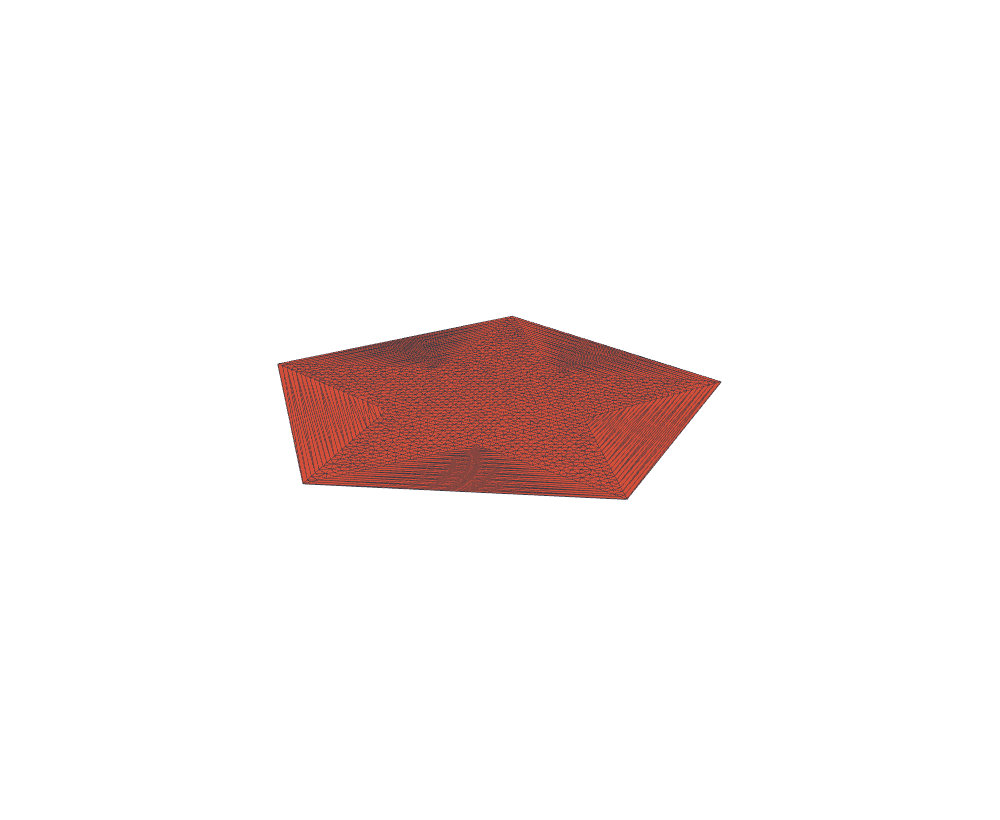
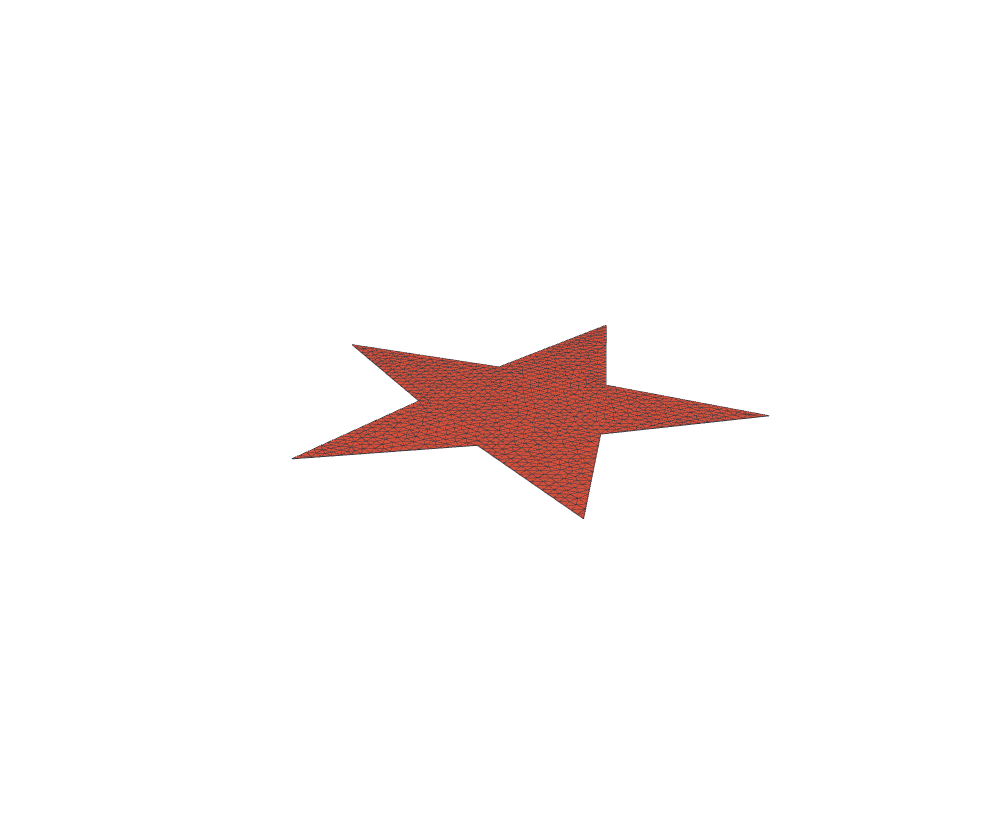
Stage 3: cdt3 boundary-constrained Tetraedrisierung -- conforming Steiner-Recovery (Lnc/Pac) der frozen Surface; Wuerfel-Milestone (Volumen/Flaeche exakt, watertight)

Changed region(s): [[0.279, 0.3659, 0.775, 0.6402]]

diff --git a/crates/rapidmesh-tet/src/cdt3.rs b/crates/rapidmesh-tet/src/cdt3.rs
@@ -1,0 +1,308 @@
+//! Stage 3: boundary-constrained tetrahedralization (conforming CDT).
+//!
+//! Given the frozen Stage-2 surface mesh `S` (exact vertices on their carriers,
+//! plus a triangulation) and a set of relaxed interior points, this builds a
+//! Delaunay tetrahedralization that contains every triangle of `S` as a union of
+//! tet faces (\cref{prop:watertight} of the report). Boundary recovery is
+//! conforming, by Steiner insertion ON the constraint (Diazzi et al. 2023): a
+//! missing constraint edge is split at a [`Point3::Lnc`] midpoint (exactly on the
+//! edge line) and a missing facet at a [`Point3::Pac`] interior point (exactly on
+//! the facet plane), so the surface geometry is preserved and the next recovery
+//! round sees the carrier intact. The result has a tetrahedron on each side of
+//! every surface triangle, so region labelling is a flood fill that never leaks.
+//!
+//! This replaces the unconstrained-Delaunay + centroid-classification path, which
+//! recovered the boundary only statistically (\cref{sec:conformity}).
+
+use crate::delaunay::DelaunayBuilder;
+use rapidmesh_exact::Point3;
+use std::collections::HashMap;
+use std::hash::BuildHasherDefault;
+
+type V3 = [f64; 3];
+type DMap<K, V> = HashMap<K, V, BuildHasherDefault<rustc_hash::FxHasher>>;
+
+fn sorted2(a: usize, b: usize) -> (usize, usize) {
+    (a.min(b), a.max(b))
+}
+
+/// Output of [`tetrahedralize_constrained`].
+pub struct Constrained {
+    /// Tet vertex indices into `points` (and `exact`).
+    pub tets: Vec<[usize; 4]>,
+    /// f64 vertex positions (surface verts, interior, recovered Steiner).
+    pub points: Vec<V3>,
+    /// The refined constraint triangulation (the surface after recovery splits),
+    /// indices into `points`. Every triangle here is a face of two tets.
+    pub surf_tris: Vec<[usize; 3]>,
+    /// `points[i]` came from surface vertex / interior / Steiner: this is the
+    /// number of original surface vertices (`points[..n_surf_verts]`).
+    pub n_surf_verts: usize,
+}
+
+/// Recovery cap: a safety bound on Steiner insertions, far above any real need
+/// (conforming recovery terminates; this only guards a degenerate input).
+const RECOVER_CAP: usize = 1 << 20;
+
+/// Boundary-constrained Delaunay tetrahedralization. `verts` are the exact
+/// surface vertices (each already on its analytic carrier); `tris` index into
+/// `verts` and form the frozen, watertight surface; `interior` are the relaxed
+/// interior seeds; `lo`/`hi` bound the domain.
+pub fn tetrahedralize_constrained(
+    verts: &[Point3],
+    tris: &[[usize; 3]],
+    interior: &[V3],
+    lo: V3,
+    hi: V3,
+) -> Constrained {
+    let mut db = DelaunayBuilder::enclosing(lo, hi);
+
+    // All mesh vertices, exact; `bidx[k]` is the builder index of `all[k]`.
+    // Surface vertices first (so `n_surf_verts` splits them from interior).
+    let mut all: Vec<Point3> = verts.to_vec();
+    let mut bidx: Vec<usize> = Vec::with_capacity(all.len() + interior.len());
+    for p in &all {
+        bidx.push(db.insert_exact(p.clone()));
+    }
+    let n_surf_verts = all.len();
+    for &p in interior {
+        if let Some(i) = db.try_insert(p) {
+            bidx.push(i);
+            all.push(Point3::Explicit(p));
+        }
+    }
+
+    let mut tris: Vec<[usize; 3]> = tris.to_vec();
+
+    // ---- edge recovery: every constraint edge must be a mesh edge ----------
+    recover_edges(&mut db, &mut all, &mut bidx, &mut tris);
+
+    // ---- facet recovery: every constraint triangle must be a mesh face -----
+    recover_facets(&mut db, &mut all, &mut bidx, &mut tris);
+
+    // Final tets in builder indices -> map back to `all` indices.
+    let b2a = invert(&bidx, db.len());
+    let tets: Vec<[usize; 4]> = db
+        .tets()
+        .into_iter()
+        .map(|t| std::array::from_fn(|j| b2a[t[j]]))
+        .collect();
+    let points: Vec<V3> = all.iter().map(|p| p.approx().expect("valid vertex")).collect();
+    Constrained { tets, points, surf_tris: tris, n_surf_verts }
+}
+
+/// Inverse of `bidx`: builder index -> `all` index (`usize::MAX` if unused, e.g.
+/// a deduplicated near-duplicate).
+fn invert(bidx: &[usize], builder_len: usize) -> Vec<usize> {
+    let mut b2a = vec![usize::MAX; builder_len];
+    for (a, &b) in bidx.iter().enumerate() {
+        if b < builder_len {
+            b2a[b] = a;
+        }
+    }
+    b2a
+}
+
+/// Inserts the [`Point3::Lnc`] midpoint of edge `(a,b)` (indices into `all`),
+/// exactly on the edge line, and returns its `all` index.
+fn split_edge_midpoint(db: &mut DelaunayBuilder, all: &mut Vec<Point3>, bidx: &mut Vec<usize>, a: usize, b: usize) -> usize {
+    let pa = all[a].approx().expect("valid");
+    let pb = all[b].approx().expect("valid");
+    let m = Point3::Lnc { a: pa, b: pb, t: 0.5 };
+    let bi = db.insert_exact(m.clone());
+    all.push(m);
+    bidx.push(bi);
+    all.len() - 1
+}
+
+/// Inserts the [`Point3::Pac`] centroid of triangle `(a,b,c)`, exactly on the
+/// facet plane, and returns its `all` index.
+fn split_facet_centroid(db: &mut DelaunayBuilder, all: &mut Vec<Point3>, bidx: &mut Vec<usize>, a: usize, b: usize, c: usize) -> usize {
+    let pa = all[a].approx().expect("valid");
+    let pb = all[b].approx().expect("valid");
+    let pc = all[c].approx().expect("valid");
+    let g = Point3::Pac { a: pa, b: pb, c: pc, u: 1.0 / 3.0, v: 1.0 / 3.0 };
+    let bi = db.insert_exact(g.clone());
+    all.push(g);
+    bidx.push(bi);
+    all.len() - 1
+}
+
+/// Forces every constraint edge to appear as a mesh edge by splitting missing
+/// edges at their midpoint; each split also bisects the incident triangles so the
+/// surface stays a triangulation.
+fn recover_edges(db: &mut DelaunayBuilder, all: &mut Vec<Point3>, bidx: &mut Vec<usize>, tris: &mut Vec<[usize; 3]>) {
+    let mut steiner = 0usize;
+    loop {
+        // Collect a missing constraint edge.
+        let mut missing: Option<(usize, usize)> = None;
+        let mut seen: DMap<(usize, usize), ()> = DMap::default();
+        'outer: for t in tris.iter() {
+            for e in 0..3 {
+                let (a, b) = (t[e], t[(e + 1) % 3]);
+                let key = sorted2(a, b);
+                if seen.insert(key, ()).is_some() {
+                    continue;
+                }
+                if !db.edge_exists(bidx[a], bidx[b]) {
+                    missing = Some((a, b));
+                    break 'outer;
+                }
+            }
+        }
+        let (a, b) = match missing {
+            Some(e) => e,
+            None => break,
+        };
+        let m = split_edge_midpoint(db, all, bidx, a, b);
+        bisect_triangles_on_edge(tris, a, b, m);
+        steiner += 1;
+        assert!(steiner < RECOVER_CAP, "edge recovery did not terminate");
+    }
+}
+
+/// Replaces every triangle containing edge `(a,b)` by the two triangles obtained
+/// by splitting that edge at the new midpoint vertex `m` (preserving winding).
+fn bisect_triangles_on_edge(tris: &mut Vec<[usize; 3]>, a: usize, b: usize, m: usize) {
+    let mut out: Vec<[usize; 3]> = Vec::with_capacity(tris.len() + 2);
+    for &t in tris.iter() {
+        let mut e = None;
+        for k in 0..3 {
+            let (u, v) = (t[k], t[(k + 1) % 3]);
+            if (u == a && v == b) || (u == b && v == a) {
+                e = Some(k);
+                break;
+            }
+        }
+        match e {
+            Some(k) => {
+                let (u, v, w) = (t[k], t[(k + 1) % 3], t[(k + 2) % 3]);
+                // (u,v,w) with edge (u,v) split at m: (u,m,w) and (m,v,w).
+                out.push([u, m, w]);
+                out.push([m, v, w]);
+            }
+            None => out.push(t),
+        }
+    }
+    *tris = out;
+}
+
+/// Forces every constraint triangle to appear as a mesh face by inserting an
+/// interior Steiner point on any missing facet and splitting it into three.
+/// Re-runs edge recovery after each split (the new sub-edges may themselves be
+/// missing).
+fn recover_facets(db: &mut DelaunayBuilder, all: &mut Vec<Point3>, bidx: &mut Vec<usize>, tris: &mut Vec<[usize; 3]>) {
+    let mut steiner = 0usize;
+    loop {
+        let mut missing: Option<usize> = None;
+        for (i, t) in tris.iter().enumerate() {
+            if !db.face_exists(bidx[t[0]], bidx[t[1]], bidx[t[2]]) {
+                missing = Some(i);
+                break;
+            }
+        }
+        let i = match missing {
+            Some(i) => i,
+            None => break,
+        };
+        let t = tris[i];
+        let g = split_facet_centroid(db, all, bidx, t[0], t[1], t[2]);
+        tris.swap_remove(i);
+        tris.push([t[0], t[1], g]);
+        tris.push([t[1], t[2], g]);
+        tris.push([t[2], t[0], g]);
+        recover_edges(db, all, bidx, tris);
+        steiner += 1;
+        assert!(steiner < RECOVER_CAP, "facet recovery did not terminate");
+    }
+}
+
+#[cfg(test)]
+mod tests {
+    use super::*;
+
+    fn cube_verts() -> Vec<Point3> {
+        let mut v = Vec::new();
+        for &z in &[0.0, 1.0] {
+            for &y in &[0.0, 1.0] {
+                for &x in &[0.0, 1.0] {
+                    v.push(Point3::explicit(x, y, z));
+                }
+            }
+        }
+        v
+    }
+
+    /// The 12 outward triangles of the unit cube (2 per face), indices into the
+    /// `cube_verts` order (x fastest, then y, then z).
+    fn cube_tris() -> Vec<[usize; 3]> {
+        // corner index = x + 2y + 4z
+        let q = |a, b, c, d| vec![[a, b, c], [a, c, d]];
+        let mut t = Vec::new();
+        t.extend(q(0, 1, 3, 2)); // z=0 bottom
+        t.extend(q(4, 6, 7, 5)); // z=1 top
+        t.extend(q(0, 4, 5, 1)); // y=0
+        t.extend(q(2, 3, 7, 6)); // y=1
+        t.extend(q(0, 2, 6, 4)); // x=0
+        t.extend(q(1, 5, 7, 3)); // x=1
+        t
+    }
+
+    fn total_volume(c: &Constrained) -> f64 {
+        let mut vol = 0.0;
+        for t in &c.tets {
+            let p: [V3; 4] = std::array::from_fn(|j| c.points[t[j]]);
+            let d = |i: usize, k: usize| p[i][k] - p[0][k];
+            let det = (d(1, 0) * (d(2, 1) * d(3, 2) - d(2, 2) * d(3, 1))
+                - d(1, 1) * (d(2, 0) * d(3, 2) - d(2, 2) * d(3, 0))
+                + d(1, 2) * (d(2, 0) * d(3, 1) - d(2, 1) * d(3, 0)))
+                .abs()
+                / 6.0;
+            vol += det;
+        }
+        vol
+    }
+
+    #[test]
+    fn cube_all_facets_recovered_and_volume_exact() {
+        let verts = cube_verts();
+        let tris = cube_tris();
+        let interior = vec![[0.5, 0.5, 0.5], [0.25, 0.5, 0.7], [0.7, 0.3, 0.4]];
+        let c = tetrahedralize_constrained(&verts, &tris, &interior, [0.0; 3], [1.0; 3]);
+        // every refined constraint triangle is a tet face: re-check on a fresh
+        // builder over the final points would be circular; instead assert the
+        // total tet volume equals the cube exactly (a missing facet would leave a
+        // void or a straddle, breaking the sum), plus the surface area.
+        let vol = total_volume(&c);
+        assert!((vol - 1.0).abs() < 1e-9, "cube volume should be 1, got {vol}");
+        // prop:watertight on the output: every refined constraint triangle is a
+        // face of some tet (so each has a tet on each side).
+        let mut faces: std::collections::HashSet<(usize, usize, usize)> = std::collections::HashSet::new();
+        for t in &c.tets {
+            for f in &[[t[0], t[1], t[2]], [t[0], t[1], t[3]], [t[0], t[2], t[3]], [t[1], t[2], t[3]]] {
+                let mut s = *f;
+                s.sort_unstable();
+                faces.insert((s[0], s[1], s[2]));
+            }
+        }
+        for t in &c.surf_tris {
+            let mut s = *t;
+            s.sort_unstable();
+            assert!(faces.contains(&(s[0], s[1], s[2])), "constraint triangle {t:?} is not a tet face");
+        }
+        // surface area of the refined constraint triangulation = 6 (cube).
+        let mut area = 0.0;
+        for t in &c.surf_tris {
+            let (a, b, cc) = (c.points[t[0]], c.points[t[1]], c.points[t[2]]);
+            let ab = [b[0] - a[0], b[1] - a[1], b[2] - a[2]];
+            let ac = [cc[0] - a[0], cc[1] - a[1], cc[2] - a[2]];
+            let cr = [
+                ab[1] * ac[2] - ab[2] * ac[1],
+                ab[2] * ac[0] - ab[0] * ac[2],
+                ab[0] * ac[1] - ab[1] * ac[0],
+            ];
+            area += 0.5 * (cr[0] * cr[0] + cr[1] * cr[1] + cr[2] * cr[2]).sqrt();
+        }
+        assert!((area - 6.0).abs() < 1e-9, "cube surface area should be 6, got {area}");
+    }
+}

diff --git a/crates/rapidmesh-tet/src/lib.rs b/crates/rapidmesh-tet/src/lib.rs
@@ -13,6 +13,7 @@
 //!    PLC surface back-references (`project`), for curved boundaries.
 
 pub mod brep_mesh;
+pub mod cdt3;
 pub mod conform;
 pub mod curve;
 pub mod cvt;